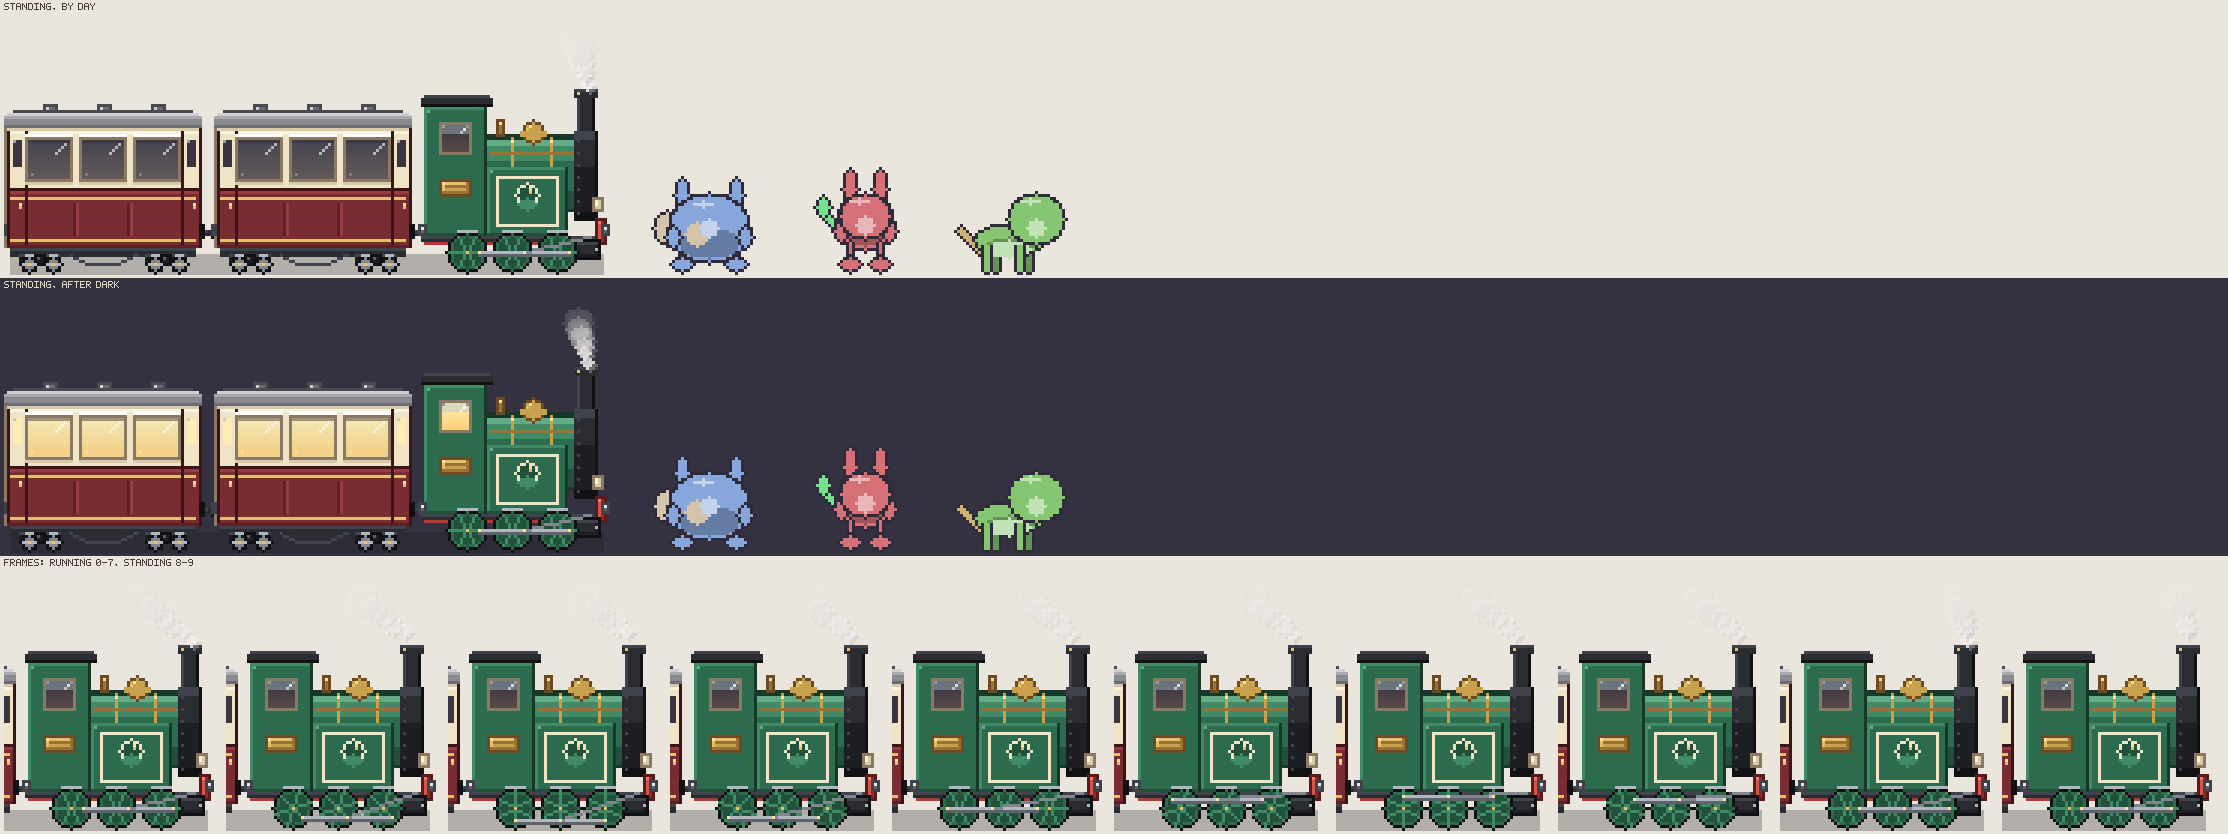
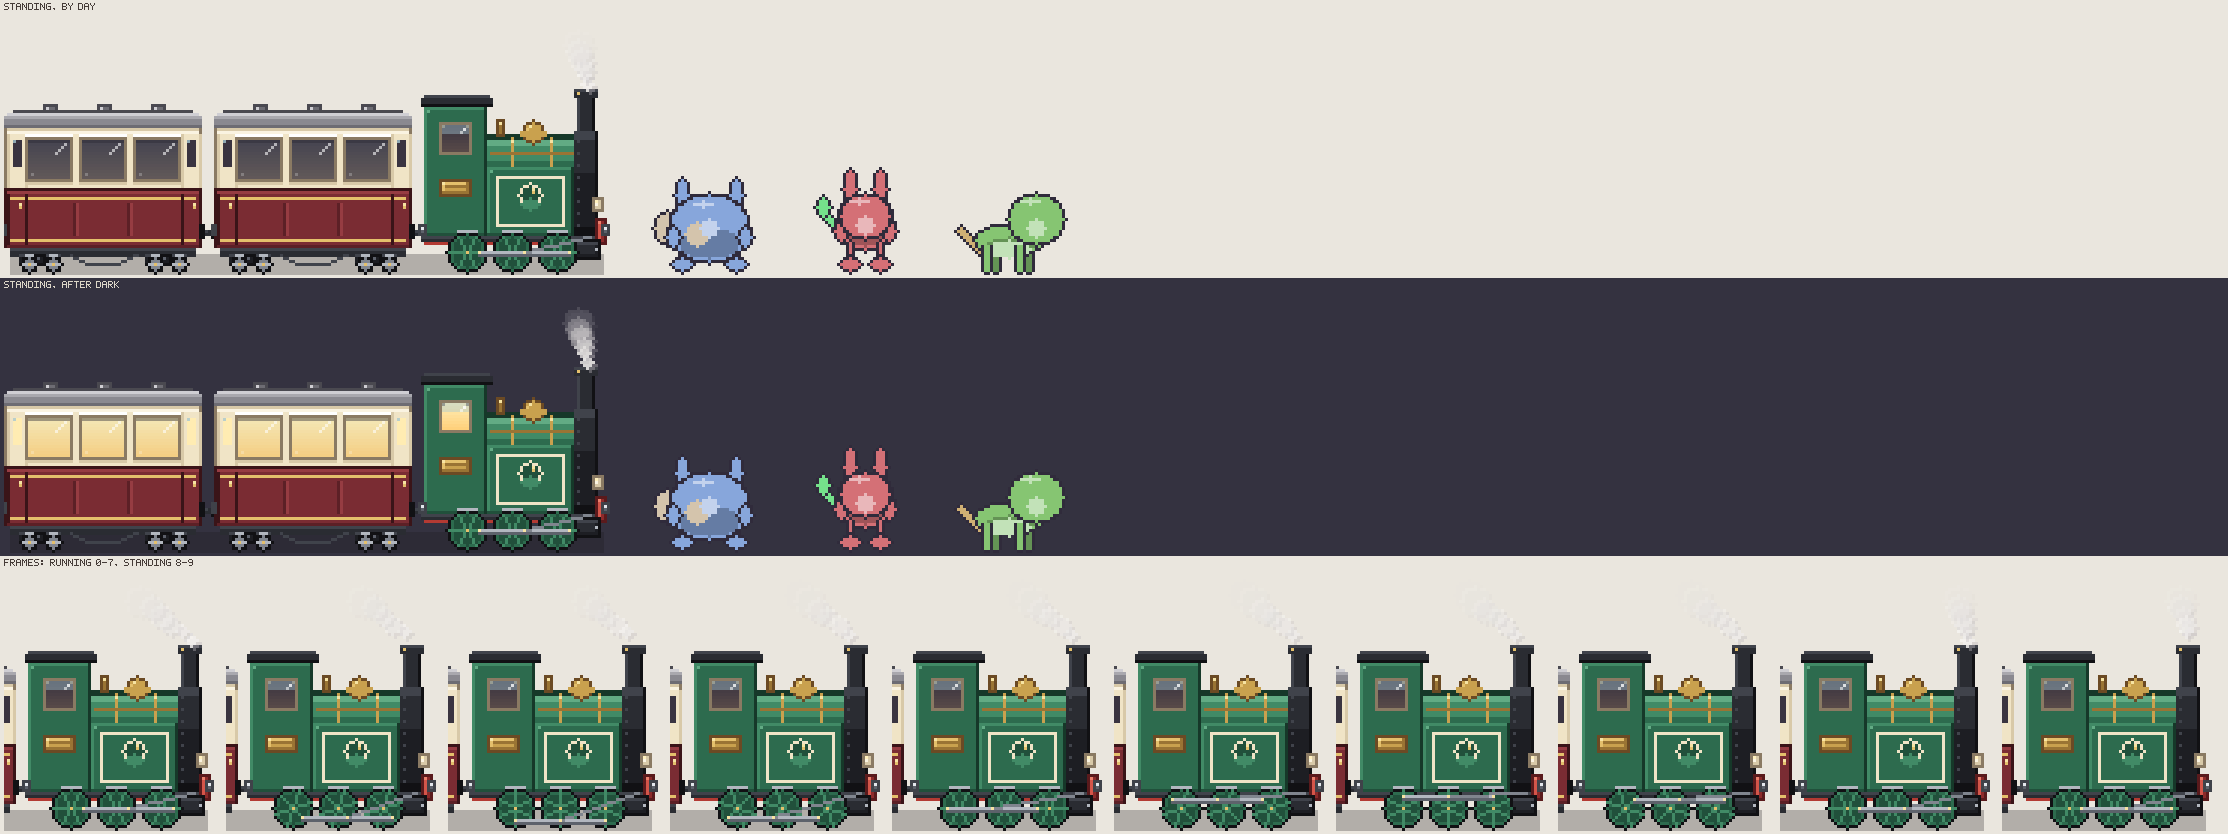
Close the seams in the station train (#36)
The engine's side tank now runs up to the smokebox and the smokebox down to
the running plate, so no boiler strip or gap shows between them. The coaches'
ends and doors are lined in cream above the waist and maroon below, so no dark
line runs up through the cream. Train review sheet redrawn.

diff --git a/crates/formiga-art/src/train.rs b/crates/formiga-art/src/train.rs
@@ -295,23 +295,19 @@ fn coach(paint: &mut Paint<'_>, x: i32, lit: bool) {
         paint.vline(panel, BELT + 5, BODY_BOTTOM - BELT - 9, MAROON.shadow);
         paint.vline(panel + 1, BELT + 5, BODY_BOTTOM - BELT - 9, MAROON.light);
     }
-    paint.vline(x, BODY_TOP, BODY_BOTTOM - BODY_TOP, CREAM.edge);
-    paint.vline(
-        x + length - 1,
-        BODY_TOP,
-        BODY_BOTTOM - BODY_TOP,
-        MAROON.edge,
-    );
+    // Each end and each door is lined in its own band's tone, so no maroon line runs up through
+    // the cream.
+    for end in [x, x + length - 1] {
+        paint.vline(end, BODY_TOP, BELT - BODY_TOP, CREAM.edge);
+        paint.vline(end, BELT, BODY_BOTTOM - BELT, MAROON.edge);
+    }
 
     // Doors at both ends, each with a droplight and a brass handle.
     for door in [x + 1, x + length - 7] {
-        paint.vline(door, BODY_TOP + 1, BODY_BOTTOM - BODY_TOP - 2, MAROON.edge);
-        paint.vline(
-            door + 6,
-            BODY_TOP + 1,
-            BODY_BOTTOM - BODY_TOP - 2,
-            MAROON.edge,
-        );
+        for side in [door, door + 6] {
+            paint.vline(side, BODY_TOP + 2, BELT - BODY_TOP - 2, CREAM.shadow);
+            paint.vline(side, BELT + 2, BODY_BOTTOM - BELT - 3, MAROON.edge);
+        }
         paint.rect(door + 2, WINDOW_TOP, 3, 9, compartment(lit, 0.0));
         paint.put(door + 2, WINDOW_TOP, rgba(0xa6c8d2, 200));
         paint.put(door + 4, BELT + 6, BRASS.light);
@@ -426,15 +422,15 @@ fn locomotive(paint: &mut Paint<'_>, x: i32, lit: bool) {
     );
 
     // Side tanks over the lower half of the boiler, lined out in cream.
-    paint.panel(x + 21, 27, 27, plate - 27);
+    paint.panel(x + 21, 27, 29, plate - 27);
     for y in [30, plate - 4] {
-        paint.hline(x + 24, y, 21, CREAM.base);
+        paint.hline(x + 24, y, 23, CREAM.base);
     }
-    for column in [x + 24, x + 44] {
+    for column in [x + 24, x + 46] {
         paint.vline(column, 30, plate - 33, CREAM.base);
     }
     // The colony's crest: a hill under a sun, in a ring.
-    let (crest_x, crest_y) = (x + 34, 36);
+    let (crest_x, crest_y) = (x + 35, 36);
     paint.ellipse(crest_x, crest_y, 4, 4, CREAM.base);
     paint.ellipse(crest_x, crest_y, 3, 3, LOCO.shadow);
     paint.ellipse(crest_x, crest_y + 3, 3, 2, LOCO.light);
@@ -450,7 +446,7 @@ fn locomotive(paint: &mut Paint<'_>, x: i32, lit: bool) {
     paint.bevel(x + 24, 11, 3, 6, BRASS);
 
     // Smokebox and chimney, in black.
-    let (smoke_top, smoke_bottom) = (15, 45);
+    let (smoke_top, smoke_bottom) = (15, plate);
     for y in smoke_top..smoke_bottom {
         let t = (y - smoke_top) as f32 / (smoke_bottom - smoke_top) as f32;
         let color = if t < 0.08 {

diff --git a/CHANGELOG.md b/CHANGELOG.md
@@ -13,6 +13,13 @@ All notable changes are documented here.
   usual, and goes indoors again when Home says so. An older Home has everyone in, as before. Every
   earlier version's golden fixtures read and write as they did.
 
+### Fixed
+
+- The train reads as one piece at the station and on the desktop. The engine's side tank now runs
+  up to the smokebox, so no strip of boiler shows between them, and the smokebox comes down to the
+  running plate instead of stopping short of it. The coaches' doors and ends are lined in cream
+  above the waist and maroon below, so no dark line runs up through the cream.
+
 ## [0.67.3] - 2026-10-06
 
 Released together with Formiga Hill 0.67.3 and Formiga Home 0.67.3, which take its version number
